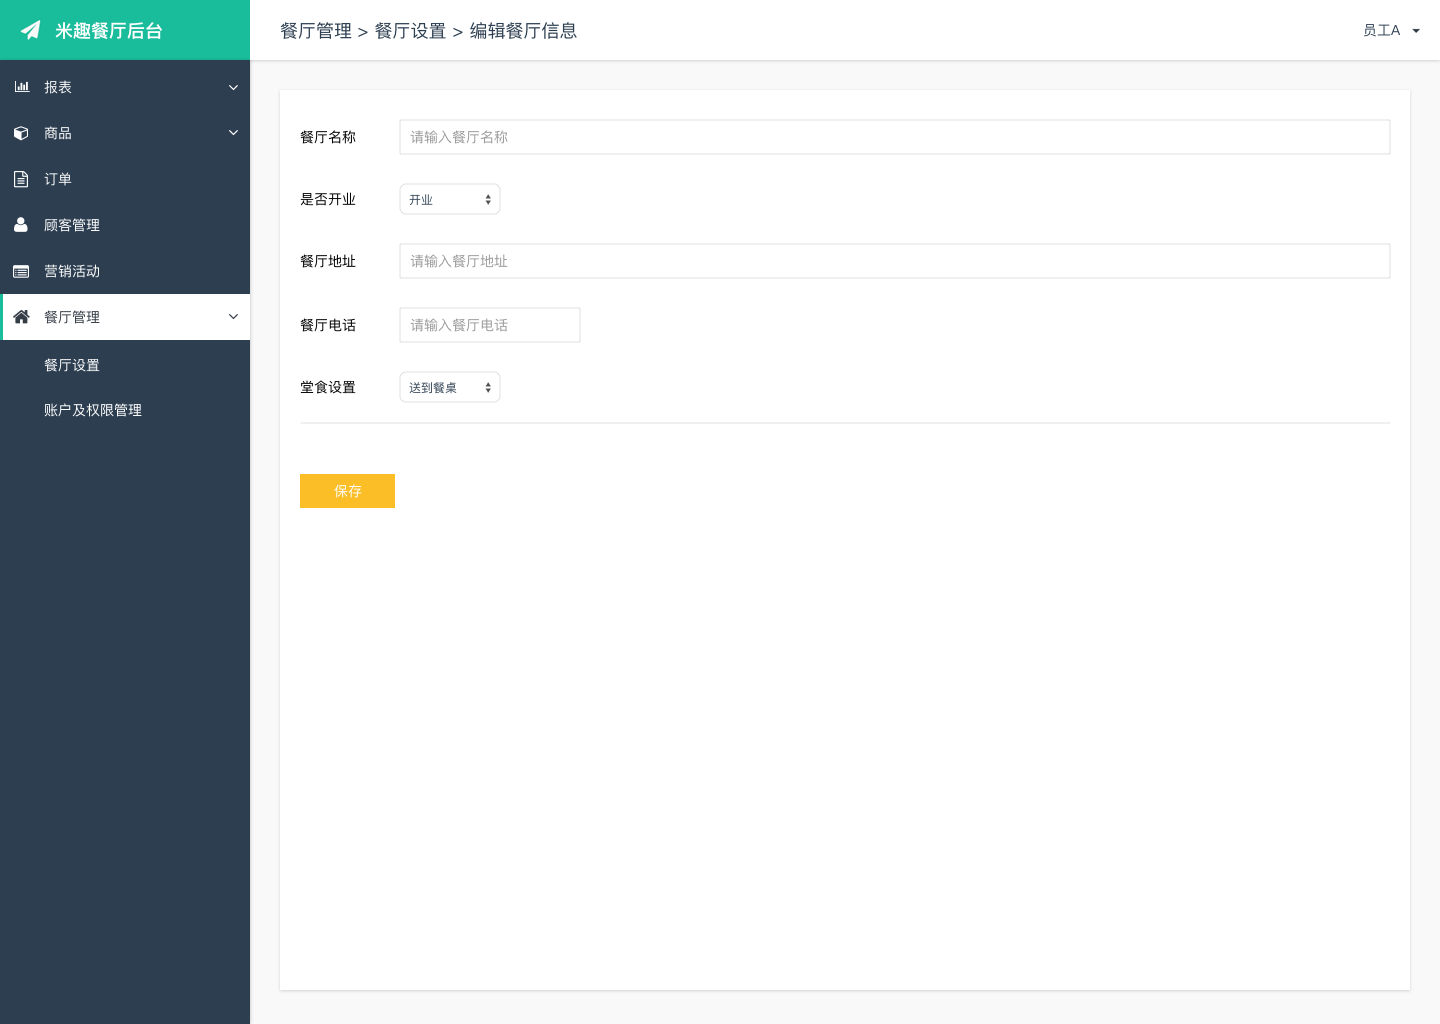
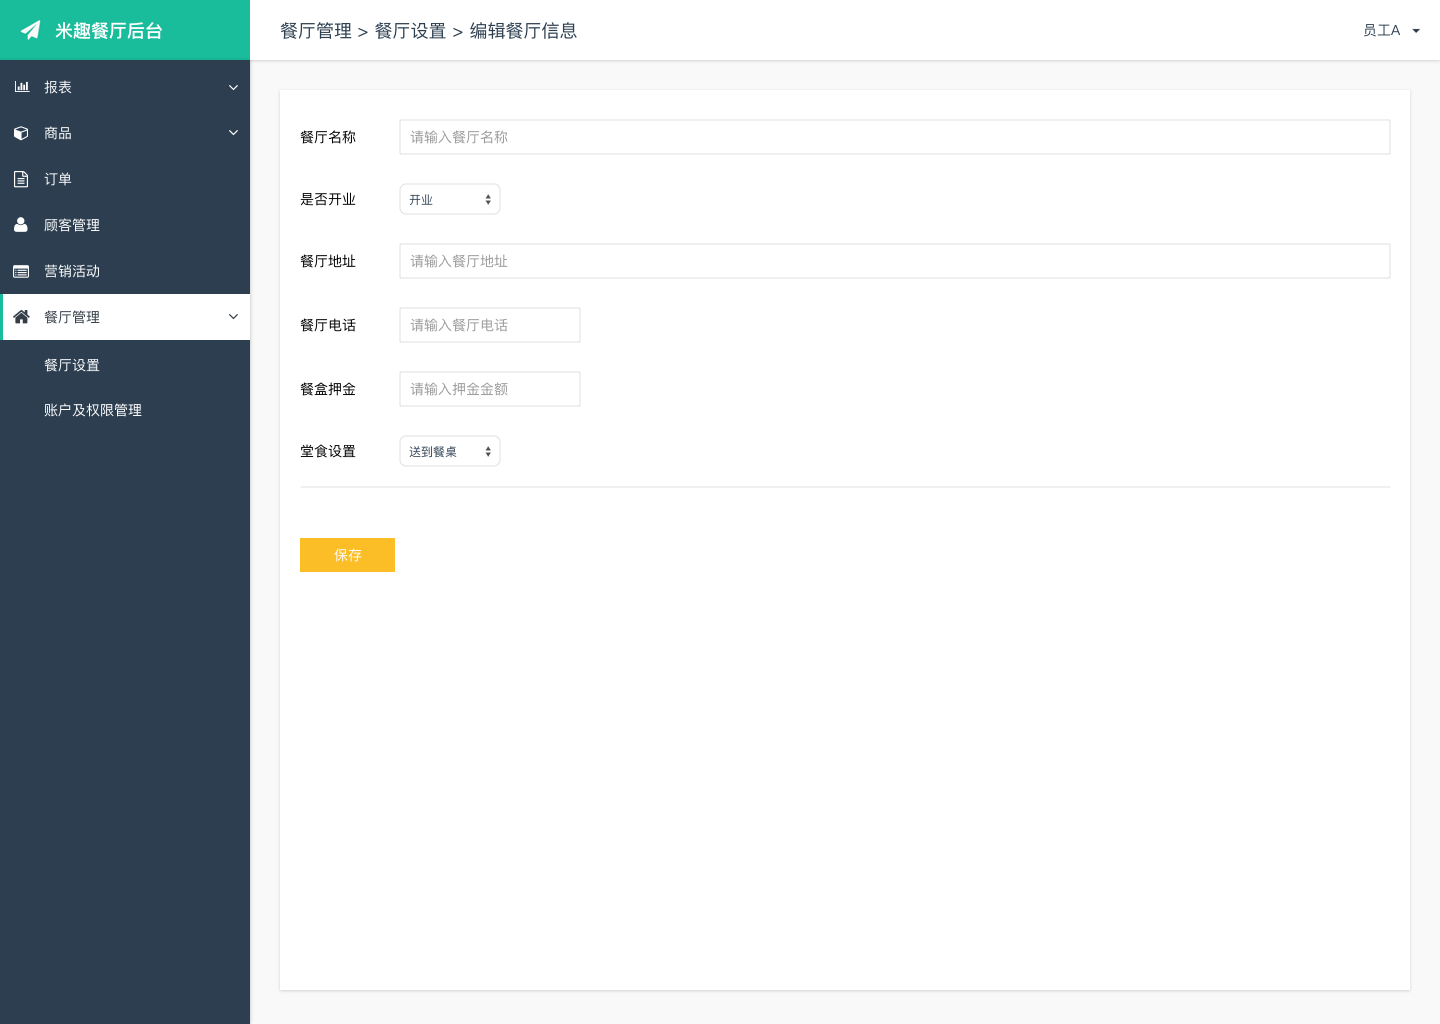
押金

Changed region(s): [[0.1875, 0.4375, 0.3125, 0.5625], [0.2812, 0.375, 0.3438, 0.4062], [0.2188, 0.375, 0.25, 0.4062]]

diff --git a/files/f1餐厅设置/data.js b/files/f1餐厅设置/data.js
@@ -2,6 +2,6 @@
 (function() {
     var _ = function() { var r={},a=arguments; for(var i=0; i<a.length; i+=2) r[a[i]]=a[i+1]; return r; }
     var _creator = function() { return _(b,c,d,e,f,g,h,g,i,[j],k,_(l,m,n,o,p,q,r,_(),s,_(t,u,v,w,x,_(y,z,A,B),C,null,D,w,E,w,F,G,H,null,I,J,K,L,M,N,O,J),P,_(),Q,_(),R,_(S,[_(T,U,V,W,X,Y,n,Z,ba,Z,bb,bc,s,_(bd,_(be,bf,bg,bh),t,bi,bj,_(bk,bl,bm,bl)),P,_(),bn,_(),S,[_(T,bo,V,W,X,null,bp,bc,n,bq,ba,br,bb,bc,s,_(bd,_(be,bf,bg,bh),t,bi,bj,_(bk,bl,bm,bl)),P,_(),bn,_())],bs,_(bt,bu)),_(T,bv,V,W,X,bw,n,bx,ba,bx,bb,bc,s,_(t,by,bj,_(bk,bz,bm,bA)),P,_(),bn,_(),S,[_(T,bB,V,W,X,null,bp,bc,n,bq,ba,br,bb,bc,s,_(t,by,bj,_(bk,bz,bm,bA)),P,_(),bn,_())],bs,_(bC,bD,bE,bF,bG,bH)),_(T,bI,V,W,X,bJ,n,bK,ba,bK,bb,bc,s,_(bL,bM,bd,_(be,bN,bg,bl),t,bO,bj,_(bk,bP,bm,bQ),bR,_(y,z,A,bS,bT,bU),bV,bW),P,_(),bn,_(),S,[_(T,bX,V,W,X,null,bp,bc,n,bq,ba,br,bb,bc,s,_(bL,bM,bd,_(be,bN,bg,bl),t,bO,bj,_(bk,bP,bm,bQ),bR,_(y,z,A,bS,bT,bU),bV,bW),P,_(),bn,_())],bY,g),_(T,bZ,V,W,X,bw,n,bx,ba,bx,bb,bc,s,_(t,by,bj,_(bk,ca,bm,cb)),P,_(),bn,_(),S,[_(T,cc,V,W,X,null,bp,bc,n,bq,ba,br,bb,bc,s,_(t,by,bj,_(bk,ca,bm,cb)),P,_(),bn,_())],bs,_(bC,cd,bE,ce,bG,cf,cg,bH)),_(T,ch,V,W,X,bJ,n,bK,ba,bK,bb,bc,s,_(bL,bM,bd,_(be,ci,bg,bl),t,bO,bj,_(bk,cj,bm,ck),bR,_(y,z,A,bS,bT,bU),bV,bW),P,_(),bn,_(),S,[_(T,cl,V,W,X,null,bp,bc,n,bq,ba,br,bb,bc,s,_(bL,bM,bd,_(be,ci,bg,bl),t,bO,bj,_(bk,cj,bm,ck),bR,_(y,z,A,bS,bT,bU),bV,bW),P,_(),bn,_())],bY,g)])),cm,_(),cn,_(co,_(cp,cq),cr,_(cp,cs),ct,_(cp,cu),cv,_(cp,cw),cx,_(cp,cy),cz,_(cp,cA),cB,_(cp,cC),cD,_(cp,cE),cF,_(cp,cG),cH,_(cp,cI)));}; 
-var b="url",c="f1餐厅设置.html",d="generationDate",e=new Date(1513146714742.23),f="isCanvasEnabled",g=false,h="isAdaptiveEnabled",i="variables",j="OnLoadVariable",k="page",l="packageId",m="cbd09566578c4590a07d61d76f7077d4",n="type",o="Axure:Page",p="name",q="F1餐厅设置",r="notes",s="style",t="baseStyle",u="627587b6038d43cca051c114ac41ad32",v="pageAlignment",w="near",x="fill",y="fillType",z="solid",A="color",B=0xFFFFFFFF,C="image",D="imageHorizontalAlignment",E="imageVerticalAlignment",F="imageRepeat",G="auto",H="favicon",I="sketchFactor",J="0",K="colorStyle",L="appliedColor",M="fontName",N="Applied Font",O="borderWidth",P="adaptiveStyles",Q="interactionMap",R="diagram",S="objects",T="id",U="5c607649e3ac4006976f5c378bd02804",V="label",W="",X="friendlyType",Y="图片",Z="imageBox",ba="styleType",bb="visible",bc=true,bd="size",be="width",bf=1200,bg="height",bh=853,bi="75a91ee5b9d042cfa01b8d565fe289c0",bj="location",bk="x",bl=20,bm="y",bn="imageOverrides",bo="1fddde89d1cf4209a6e593299f63954e",bp="isContained",bq="richTextPanel",br="paragraph",bs="images",bt="normal~",bu="images/f1餐厅设置/regen/u0.png",bv="14708dc5523a4beda738e5f4152f67c6",bw="连接线",bx="connector",by="699a012e142a4bcba964d96e88b88bdf",bz=309,bA=354,bB="39660b09fadf44d0bd43de93795c74b3",bC="0~",bD="images/f1餐厅设置/regen/u2_seg0.png",bE="1~",bF="images/f1餐厅设置/regen/u2_seg1.png",bG="2~",bH="images/f1餐厅设置/regen/u2_seg2.png",bI="2ffff77d29e342a0ade8060149e5b742",bJ="矩形",bK="vectorShape",bL="fontWeight",bM="700",bN=138,bO="8c7a4c5ad69a4369a5f7788171ac0b32",bP=401,bQ=362,bR="foreGroundFill",bS=0xFFFF6699,bT="opacity",bU=1,bV="fontSize",bW="14px",bX="6af27bba364f47d48a270ed2ceeafd19",bY="generateCompound",bZ="2769ca794e0f4453986dff683dfbf695",ca=559,cb=571,cc="0302cc9a722543caa2b7de19ba7e44cb",cd="images/f1餐厅设置/regen/u6_seg0.png",ce="images/f1餐厅设置/regen/u6_seg1.png",cf="images/f1餐厅设置/regen/u6_seg2.png",cg="3~",ch="106845e468174bcd84434d726738422d",ci=85,cj=600,ck=598,cl="721ce9052a0d448b83e4d990aaef5dcd",cm="masters",cn="objectPaths",co="5c607649e3ac4006976f5c378bd02804",cp="scriptId",cq="u0",cr="1fddde89d1cf4209a6e593299f63954e",cs="u1",ct="14708dc5523a4beda738e5f4152f67c6",cu="u2",cv="39660b09fadf44d0bd43de93795c74b3",cw="u3",cx="2ffff77d29e342a0ade8060149e5b742",cy="u4",cz="6af27bba364f47d48a270ed2ceeafd19",cA="u5",cB="2769ca794e0f4453986dff683dfbf695",cC="u6",cD="0302cc9a722543caa2b7de19ba7e44cb",cE="u7",cF="106845e468174bcd84434d726738422d",cG="u8",cH="721ce9052a0d448b83e4d990aaef5dcd",cI="u9";
+var b="url",c="f1餐厅设置.html",d="generationDate",e=new Date(1513147980369.7),f="isCanvasEnabled",g=false,h="isAdaptiveEnabled",i="variables",j="OnLoadVariable",k="page",l="packageId",m="cbd09566578c4590a07d61d76f7077d4",n="type",o="Axure:Page",p="name",q="F1餐厅设置",r="notes",s="style",t="baseStyle",u="627587b6038d43cca051c114ac41ad32",v="pageAlignment",w="near",x="fill",y="fillType",z="solid",A="color",B=0xFFFFFFFF,C="image",D="imageHorizontalAlignment",E="imageVerticalAlignment",F="imageRepeat",G="auto",H="favicon",I="sketchFactor",J="0",K="colorStyle",L="appliedColor",M="fontName",N="Applied Font",O="borderWidth",P="adaptiveStyles",Q="interactionMap",R="diagram",S="objects",T="id",U="5c607649e3ac4006976f5c378bd02804",V="label",W="",X="friendlyType",Y="图片",Z="imageBox",ba="styleType",bb="visible",bc=true,bd="size",be="width",bf=1200,bg="height",bh=853,bi="75a91ee5b9d042cfa01b8d565fe289c0",bj="location",bk="x",bl=20,bm="y",bn="imageOverrides",bo="1fddde89d1cf4209a6e593299f63954e",bp="isContained",bq="richTextPanel",br="paragraph",bs="images",bt="normal~",bu="images/f1餐厅设置/regen/u0.png",bv="14708dc5523a4beda738e5f4152f67c6",bw="连接线",bx="connector",by="699a012e142a4bcba964d96e88b88bdf",bz=309,bA=390,bB="39660b09fadf44d0bd43de93795c74b3",bC="0~",bD="images/f1餐厅设置/regen/u2_seg0.png",bE="1~",bF="images/f1餐厅设置/regen/u2_seg1.png",bG="2~",bH="images/f1餐厅设置/regen/u2_seg2.png",bI="2ffff77d29e342a0ade8060149e5b742",bJ="矩形",bK="vectorShape",bL="fontWeight",bM="700",bN=138,bO="8c7a4c5ad69a4369a5f7788171ac0b32",bP=401,bQ=398,bR="foreGroundFill",bS=0xFFFF6699,bT="opacity",bU=1,bV="fontSize",bW="14px",bX="6af27bba364f47d48a270ed2ceeafd19",bY="generateCompound",bZ="2769ca794e0f4453986dff683dfbf695",ca=559,cb=608,cc="0302cc9a722543caa2b7de19ba7e44cb",cd="images/f1餐厅设置/regen/u6_seg0.png",ce="images/f1餐厅设置/regen/u6_seg1.png",cf="images/f1餐厅设置/regen/u6_seg2.png",cg="3~",ch="106845e468174bcd84434d726738422d",ci=85,cj=600,ck=635,cl="721ce9052a0d448b83e4d990aaef5dcd",cm="masters",cn="objectPaths",co="5c607649e3ac4006976f5c378bd02804",cp="scriptId",cq="u0",cr="1fddde89d1cf4209a6e593299f63954e",cs="u1",ct="14708dc5523a4beda738e5f4152f67c6",cu="u2",cv="39660b09fadf44d0bd43de93795c74b3",cw="u3",cx="2ffff77d29e342a0ade8060149e5b742",cy="u4",cz="6af27bba364f47d48a270ed2ceeafd19",cA="u5",cB="2769ca794e0f4453986dff683dfbf695",cC="u6",cD="0302cc9a722543caa2b7de19ba7e44cb",cE="u7",cF="106845e468174bcd84434d726738422d",cG="u8",cH="721ce9052a0d448b83e4d990aaef5dcd",cI="u9";
 return _creator();
 })());

diff --git a/files/f11编辑餐厅信息/data.js b/files/f11编辑餐厅信息/data.js
@@ -2,6 +2,6 @@
 (function() {
     var _ = function() { var r={},a=arguments; for(var i=0; i<a.length; i+=2) r[a[i]]=a[i+1]; return r; }
     var _creator = function() { return _(b,c,d,e,f,g,h,g,i,[j],k,_(l,m,n,o,p,q,r,_(),s,_(t,u,v,w,x,_(y,z,A,B),C,null,D,w,E,w,F,G,H,null,I,J,K,L,M,N,O,J),P,_(),Q,_(),R,_(S,[_(T,U,V,W,X,Y,n,Z,ba,Z,bb,bc,s,_(bd,_(be,bf,bg,bh),t,bi,bj,_(bk,bl,bm,bl)),P,_(),bn,_(),S,[_(T,bo,V,W,X,null,bp,bc,n,bq,ba,br,bb,bc,s,_(bd,_(be,bf,bg,bh),t,bi,bj,_(bk,bl,bm,bl)),P,_(),bn,_())],bs,_(bt,bu)),_(T,bv,V,W,X,bw,n,bx,ba,bx,bb,bc,s,_(t,by,bj,_(bk,bz,bm,bA)),P,_(),bn,_(),S,[_(T,bB,V,W,X,null,bp,bc,n,bq,ba,br,bb,bc,s,_(t,by,bj,_(bk,bz,bm,bA)),P,_(),bn,_())],bs,_(bC,bD,bE,bF)),_(T,bG,V,W,X,bH,n,bI,ba,bI,bb,bc,s,_(bJ,bK,bd,_(be,bL,bg,bl),t,bM,bj,_(bk,bN,bm,bO),bP,_(y,z,A,bQ,bR,bS),bT,bU),P,_(),bn,_(),S,[_(T,bV,V,W,X,null,bp,bc,n,bq,ba,br,bb,bc,s,_(bJ,bK,bd,_(be,bL,bg,bl),t,bM,bj,_(bk,bN,bm,bO),bP,_(y,z,A,bQ,bR,bS),bT,bU),P,_(),bn,_())],bW,g)])),bX,_(),bY,_(bZ,_(ca,cb),cc,_(ca,cd),ce,_(ca,cf),cg,_(ca,ch),ci,_(ca,cj),ck,_(ca,cl)));}; 
-var b="url",c="f11编辑餐厅信息.html",d="generationDate",e=new Date(1512614812390.25),f="isCanvasEnabled",g=false,h="isAdaptiveEnabled",i="variables",j="OnLoadVariable",k="page",l="packageId",m="95777a62c050468d85a65f2d2682928c",n="type",o="Axure:Page",p="name",q="F11编辑餐厅信息",r="notes",s="style",t="baseStyle",u="627587b6038d43cca051c114ac41ad32",v="pageAlignment",w="near",x="fill",y="fillType",z="solid",A="color",B=0xFFFFFFFF,C="image",D="imageHorizontalAlignment",E="imageVerticalAlignment",F="imageRepeat",G="auto",H="favicon",I="sketchFactor",J="0",K="colorStyle",L="appliedColor",M="fontName",N="Applied Font",O="borderWidth",P="adaptiveStyles",Q="interactionMap",R="diagram",S="objects",T="id",U="5c607649e3ac4006976f5c378bd02804",V="label",W="",X="friendlyType",Y="图片",Z="imageBox",ba="styleType",bb="visible",bc=true,bd="size",be="width",bf=1200,bg="height",bh=853,bi="75a91ee5b9d042cfa01b8d565fe289c0",bj="location",bk="x",bl=20,bm="y",bn="imageOverrides",bo="1fddde89d1cf4209a6e593299f63954e",bp="isContained",bq="richTextPanel",br="paragraph",bs="images",bt="normal~",bu="images/f11编辑餐厅信息/regen/u0.png",bv="14708dc5523a4beda738e5f4152f67c6",bw="连接线",bx="connector",by="699a012e142a4bcba964d96e88b88bdf",bz=441,bA=342,bB="39660b09fadf44d0bd43de93795c74b3",bC="0~",bD="images/f11编辑餐厅信息/regen/u2_seg0.png",bE="1~",bF="images/f11编辑餐厅信息/regen/u2_seg1.png",bG="2ffff77d29e342a0ade8060149e5b742",bH="矩形",bI="vectorShape",bJ="fontWeight",bK="700",bL=127,bM="8c7a4c5ad69a4369a5f7788171ac0b32",bN=503,bO=333,bP="foreGroundFill",bQ=0xFFFF6699,bR="opacity",bS=1,bT="fontSize",bU="14px",bV="6af27bba364f47d48a270ed2ceeafd19",bW="generateCompound",bX="masters",bY="objectPaths",bZ="5c607649e3ac4006976f5c378bd02804",ca="scriptId",cb="u0",cc="1fddde89d1cf4209a6e593299f63954e",cd="u1",ce="14708dc5523a4beda738e5f4152f67c6",cf="u2",cg="39660b09fadf44d0bd43de93795c74b3",ch="u3",ci="2ffff77d29e342a0ade8060149e5b742",cj="u4",ck="6af27bba364f47d48a270ed2ceeafd19",cl="u5";
+var b="url",c="f11编辑餐厅信息.html",d="generationDate",e=new Date(1513147989750.77),f="isCanvasEnabled",g=false,h="isAdaptiveEnabled",i="variables",j="OnLoadVariable",k="page",l="packageId",m="95777a62c050468d85a65f2d2682928c",n="type",o="Axure:Page",p="name",q="F11编辑餐厅信息",r="notes",s="style",t="baseStyle",u="627587b6038d43cca051c114ac41ad32",v="pageAlignment",w="near",x="fill",y="fillType",z="solid",A="color",B=0xFFFFFFFF,C="image",D="imageHorizontalAlignment",E="imageVerticalAlignment",F="imageRepeat",G="auto",H="favicon",I="sketchFactor",J="0",K="colorStyle",L="appliedColor",M="fontName",N="Applied Font",O="borderWidth",P="adaptiveStyles",Q="interactionMap",R="diagram",S="objects",T="id",U="5c607649e3ac4006976f5c378bd02804",V="label",W="",X="friendlyType",Y="图片",Z="imageBox",ba="styleType",bb="visible",bc=true,bd="size",be="width",bf=1200,bg="height",bh=853,bi="75a91ee5b9d042cfa01b8d565fe289c0",bj="location",bk="x",bl=20,bm="y",bn="imageOverrides",bo="1fddde89d1cf4209a6e593299f63954e",bp="isContained",bq="richTextPanel",br="paragraph",bs="images",bt="normal~",bu="images/f11编辑餐厅信息/regen/u0.png",bv="14708dc5523a4beda738e5f4152f67c6",bw="连接线",bx="connector",by="699a012e142a4bcba964d96e88b88bdf",bz=441,bA=396,bB="39660b09fadf44d0bd43de93795c74b3",bC="0~",bD="images/f11编辑餐厅信息/regen/u2_seg0.png",bE="1~",bF="images/f11编辑餐厅信息/regen/u2_seg1.png",bG="2ffff77d29e342a0ade8060149e5b742",bH="矩形",bI="vectorShape",bJ="fontWeight",bK="700",bL=127,bM="8c7a4c5ad69a4369a5f7788171ac0b32",bN=503,bO=387,bP="foreGroundFill",bQ=0xFFFF6699,bR="opacity",bS=1,bT="fontSize",bU="14px",bV="6af27bba364f47d48a270ed2ceeafd19",bW="generateCompound",bX="masters",bY="objectPaths",bZ="5c607649e3ac4006976f5c378bd02804",ca="scriptId",cb="u0",cc="1fddde89d1cf4209a6e593299f63954e",cd="u1",ce="14708dc5523a4beda738e5f4152f67c6",cf="u2",cg="39660b09fadf44d0bd43de93795c74b3",ch="u3",ci="2ffff77d29e342a0ade8060149e5b742",cj="u4",ck="6af27bba364f47d48a270ed2ceeafd19",cl="u5";
 return _creator();
 })());

diff --git a/files/f1餐厅设置/styles.css b/files/f1餐厅设置/styles.css
@@ -37,7 +37,7 @@
 #u2 {
   position:absolute;
   left:309px;
-  top:354px;
+  top:390px;
   width:0px;
   height:0px;
 }
@@ -92,7 +92,7 @@
 #u4 {
   position:absolute;
   left:401px;
-  top:362px;
+  top:398px;
   width:138px;
   height:20px;
   font-family:'Arial-BoldMT', 'Arial Bold', 'Arial';
@@ -111,7 +111,7 @@
 #u6 {
   position:absolute;
   left:559px;
-  top:571px;
+  top:608px;
   width:0px;
   height:0px;
 }
@@ -173,7 +173,7 @@
 #u8 {
   position:absolute;
   left:600px;
-  top:598px;
+  top:635px;
   width:85px;
   height:20px;
   font-family:'Arial-BoldMT', 'Arial Bold', 'Arial';

diff --git a/files/f11编辑餐厅信息/styles.css b/files/f11编辑餐厅信息/styles.css
@@ -37,7 +37,7 @@
 #u2 {
   position:absolute;
   left:441px;
-  top:342px;
+  top:396px;
   width:0px;
   height:0px;
 }
@@ -85,7 +85,7 @@
 #u4 {
   position:absolute;
   left:503px;
-  top:333px;
+  top:387px;
   width:127px;
   height:20px;
   font-family:'Arial-BoldMT', 'Arial Bold', 'Arial';
